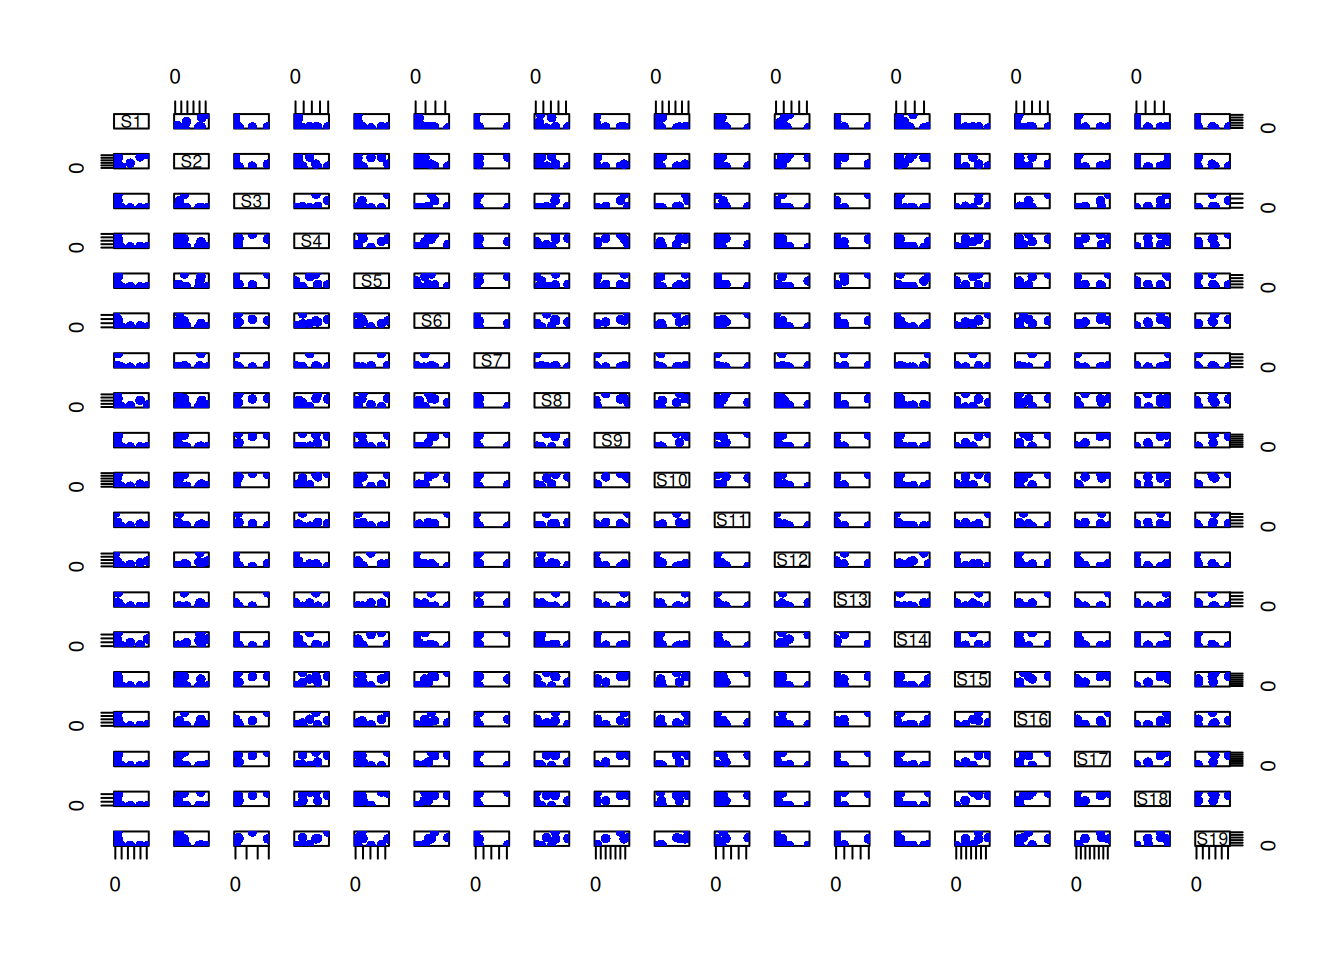
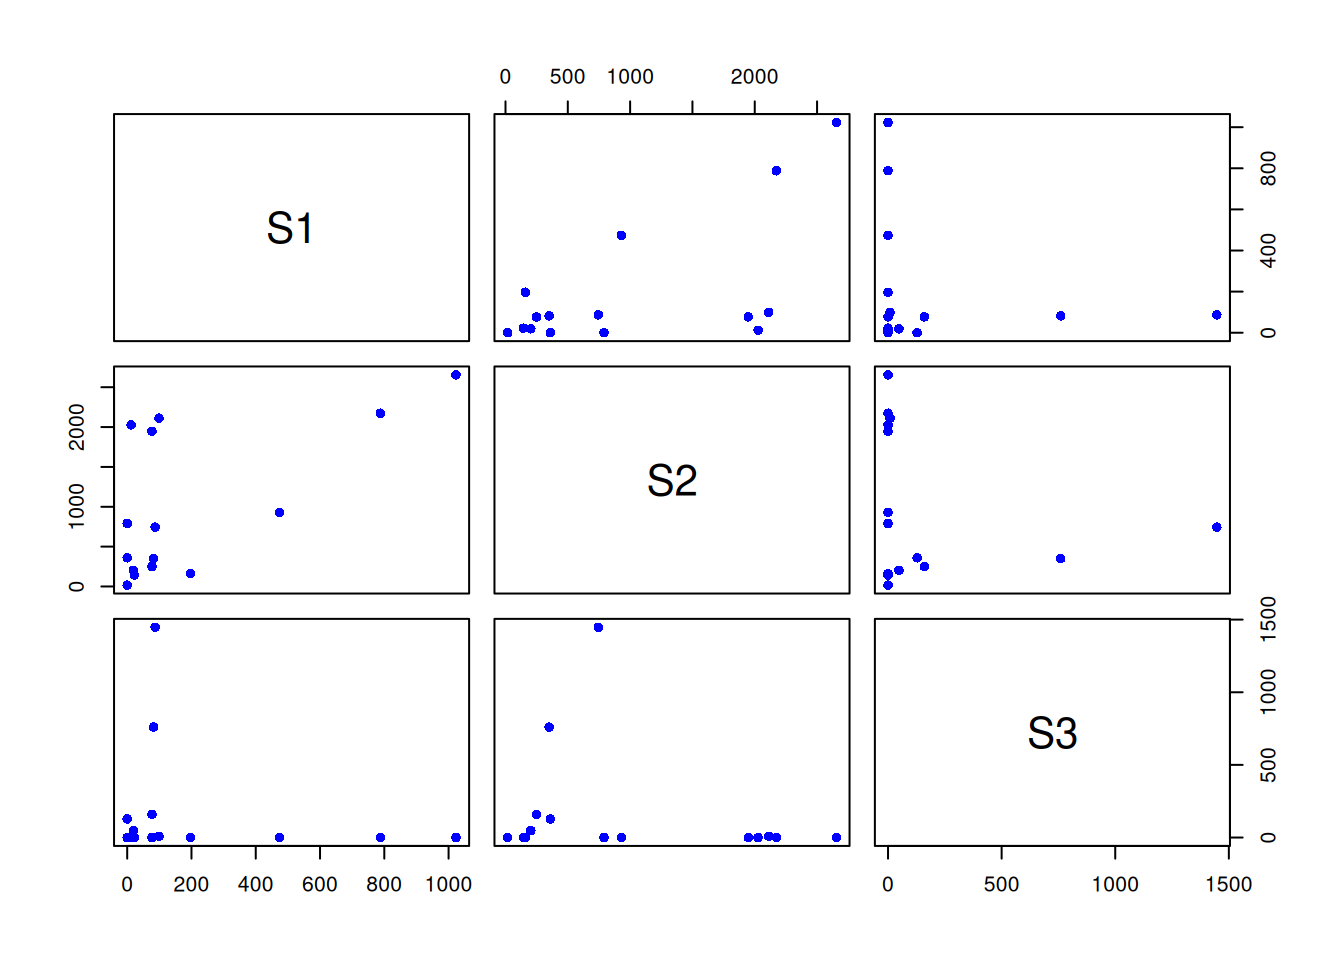
Deploying to netlify-build from @ weharris/RStatsBootcamp-2025@602ded79fa8cedd34bcb641371b27da56d1b0834 🚀

Changed region(s): [[0.0312, 0.0625, 0.9688, 0.9375], [0.9375, 0.25, 0.9688, 0.2812]]

diff --git a/09-correlation.html b/09-correlation.html
@@ -913,7 +913,7 @@ sample estimates:
 <p>For the following exercises, use the data from the file 2.3-cfseal.xlsx. The data are from a sample of Cape fur seals, and include measures of body weight, heart mass, and lung mass. There will be some data handling as part of the exercises below, a practical and important part of every real data analysis.</p>
 <p><br></p>
 <section id="exploring-the-cape-fur-seal-dataset" class="level3"><h3 class="anchored" data-anchor-id="exploring-the-cape-fur-seal-dataset">7.1 Exploring the Cape Fur Seal Dataset</h3>
-<p>Read in the data from the file 2.3-cfseal.xlsx. Use the <code><a href="https://readxl.tidyverse.org/reference/read_excel.html">read_excel()</a></code> function from the <code>readxl</code> package. Print the first few rows of the data, and check the structure of the data. Show your code.</p>
+<p>Read in the data from the file 2.3-cfseal.xlsx. Use the <code><a href="https://readxl.tidyverse.org/reference/read_excel.html">read_excel()</a></code> function from the <code>readxl</code> package. Print the first few rows of the data, and check the correlation structure of the data for the first few columns. Show your code.</p>
 <p><br></p>
 <div class="callout callout-style-default callout-tip callout-titled">
 <div class="callout-header d-flex align-content-center" data-bs-toggle="collapse" data-bs-target=".callout-2-contents" aria-controls="callout-2" aria-expanded="false" aria-label="Toggle callout">
@@ -928,30 +928,34 @@ Waders Data Intercorrelation Analysis
 <div id="callout-2" class="callout-2-contents callout-collapse collapse">
 <div class="callout-body-container callout-body">
 <div class="cell">
-<div class="sourceCode" id="cb25"><pre class="downlit sourceCode r code-with-copy"><code class="sourceCode R"><span><span class="co"># Load the MASS package and waders dataset if not already loaded</span></span>
-<span><span class="kw">if</span> <span class="op">(</span><span class="op">!</span><span class="kw"><a href="https://rdrr.io/r/base/library.html">require</a></span><span class="op">(</span><span class="va"><a href="http://www.stats.ox.ac.uk/pub/MASS4/">MASS</a></span><span class="op">)</span><span class="op">)</span> <span class="op">{</span></span>
-<span>  <span class="co"># Create a simulated waders dataset if MASS is not available</span></span>
-<span>  <span class="fu"><a href="https://rdrr.io/r/base/Random.html">set.seed</a></span><span class="op">(</span><span class="fl">123</span><span class="op">)</span></span>
-<span>  <span class="va">waders</span> <span class="op">&lt;-</span> <span class="fu"><a href="https://rdrr.io/r/base/data.frame.html">data.frame</a></span><span class="op">(</span></span>
-<span>    S1 <span class="op">=</span> <span class="fu"><a href="https://rdrr.io/r/stats/Poisson.html">rpois</a></span><span class="op">(</span><span class="fl">20</span>, <span class="fl">10</span><span class="op">)</span>,</span>
-<span>    S2 <span class="op">=</span> <span class="fu"><a href="https://rdrr.io/r/stats/Poisson.html">rpois</a></span><span class="op">(</span><span class="fl">20</span>, <span class="fl">8</span><span class="op">)</span>,</span>
-<span>    S3 <span class="op">=</span> <span class="fu"><a href="https://rdrr.io/r/stats/Poisson.html">rpois</a></span><span class="op">(</span><span class="fl">20</span>, <span class="fl">5</span><span class="op">)</span></span>
-<span>  <span class="op">)</span></span>
-<span>  <span class="co"># Add correlation between species</span></span>
-<span>  <span class="va">waders</span><span class="op">$</span><span class="va">S2</span> <span class="op">&lt;-</span> <span class="va">waders</span><span class="op">$</span><span class="va">S2</span> <span class="op">+</span> <span class="fl">0.5</span> <span class="op">*</span> <span class="va">waders</span><span class="op">$</span><span class="va">S1</span></span>
-<span>  <span class="va">waders</span><span class="op">$</span><span class="va">S3</span> <span class="op">&lt;-</span> <span class="va">waders</span><span class="op">$</span><span class="va">S3</span> <span class="op">+</span> <span class="fl">0.3</span> <span class="op">*</span> <span class="va">waders</span><span class="op">$</span><span class="va">S1</span> <span class="op">+</span> <span class="fl">0.2</span> <span class="op">*</span> <span class="va">waders</span><span class="op">$</span><span class="va">S2</span></span>
-<span><span class="op">}</span> <span class="kw">else</span> <span class="op">{</span></span>
-<span>  <span class="co"># Load the real dataset if MASS is available</span></span>
-<span>  <span class="fu"><a href="https://rdrr.io/r/utils/data.html">data</a></span><span class="op">(</span><span class="va">waders</span><span class="op">)</span></span>
-<span><span class="op">}</span></span></code><button title="Copy to Clipboard" class="code-copy-button"><i class="bi"></i></button></pre></div>
-<div class="cell-output cell-output-stderr">
-<pre><code>Loading required package: MASS</code></pre>
-</div>
-<div class="sourceCode" id="cb27"><pre class="downlit sourceCode r code-with-copy"><code class="sourceCode R"><span><span class="co"># Read the help page for the dataset</span></span>
+<div class="sourceCode" id="cb25"><pre class="downlit sourceCode r code-with-copy"><code class="sourceCode R"><span><span class="co"># Load/install the MASS package and waders dataset if not already loaded</span></span>
+<span><span class="co"># install.packages("MASS")</span></span>
+<span><span class="kw"><a href="https://rdrr.io/r/base/library.html">library</a></span><span class="op">(</span><span class="va"><a href="http://www.stats.ox.ac.uk/pub/MASS4/">MASS</a></span><span class="op">)</span></span>
+<span><span class="fu"><a href="https://rdrr.io/r/utils/data.html">data</a></span><span class="op">(</span><span class="va">waders</span><span class="op">)</span></span>
+<span></span>
+<span><span class="co"># Read the help page for the dataset</span></span>
 <span><span class="co"># help(waders)</span></span>
 <span></span>
-<span><span class="co"># Use the pairs function to visualize intercorrelations</span></span>
-<span><span class="fu"><a href="https://rdrr.io/r/graphics/pairs.html">pairs</a></span><span class="op">(</span><span class="va">waders</span>, pch <span class="op">=</span> <span class="fl">16</span>, col <span class="op">=</span> <span class="st">"blue"</span><span class="op">)</span></span></code><button title="Copy to Clipboard" class="code-copy-button"><i class="bi"></i></button></pre></div>
+<span><span class="co"># Print the first few rows of the data</span></span>
+<span><span class="fu"><a href="https://rdrr.io/r/utils/head.html">head</a></span><span class="op">(</span><span class="va">waders</span><span class="op">)</span></span></code><button title="Copy to Clipboard" class="code-copy-button"><i class="bi"></i></button></pre></div>
+<div class="cell-output cell-output-stdout">
+<pre><code>   S1   S2 S3 S4   S5  S6   S7  S8 S9 S10 S11  S12  S13   S14  S15   S16 S17
+A  12 2027  0  0 2070  39  219 153  0  15  51 8336 2031 14941   19  3566   0
+B  99 2112  9 87 3481 470 2063  28 17 145  31 1515 1917 17321 3378 20164 177
+C 197  160  0  4  126  17    1  32  0   2   9  477    1   548   13   273   0
+D   0   17  0  3   50   6    4   7  0   1   2   16    0     0    3    69   1
+E  77 1948  0 19  310   1    1  64  0  22  81 2792  221  7422   10  4519  12
+F  19  203 48 45   20 433    0   0 11 167  12    1    0    26 1790  2916 473
+   S18 S19
+A    5   0
+B 1759  53
+C    0   0
+D    0   0
+E    0   0
+F  658  55</code></pre>
+</div>
+<div class="sourceCode" id="cb27"><pre class="downlit sourceCode r code-with-copy"><code class="sourceCode R"><span><span class="co"># Use the pairs function to visualize intercorrelations for the first few rows</span></span>
+<span><span class="fu"><a href="https://rdrr.io/r/graphics/pairs.html">pairs</a></span><span class="op">(</span>x<span class="op">=</span><span class="va">waders</span><span class="op">[</span>,<span class="fl">1</span><span class="op">:</span><span class="fl">3</span><span class="op">]</span>, pch <span class="op">=</span> <span class="fl">16</span>, col <span class="op">=</span> <span class="st">"blue"</span><span class="op">)</span></span></code><button title="Copy to Clipboard" class="code-copy-button"><i class="bi"></i></button></pre></div>
 <div class="cell-output-display">
 <div>
 <figure class="figure"><p><img src="09-correlation_files/figure-html/unnamed-chunk-8-1.png" class="img-fluid figure-img" width="672"></p>
@@ -959,48 +963,12 @@ Waders Data Intercorrelation Analysis
 </div>
 </div>
 <div class="sourceCode" id="cb28"><pre class="downlit sourceCode r code-with-copy"><code class="sourceCode R"><span><span class="co"># Calculate the correlation matrix for a numerical summary</span></span>
-<span><span class="fu"><a href="https://rdrr.io/r/base/Round.html">round</a></span><span class="op">(</span><span class="fu"><a href="https://rdrr.io/r/stats/cor.html">cor</a></span><span class="op">(</span><span class="va">waders</span><span class="op">)</span>, <span class="fl">2</span><span class="op">)</span></span></code><button title="Copy to Clipboard" class="code-copy-button"><i class="bi"></i></button></pre></div>
+<span><span class="fu"><a href="https://rdrr.io/r/base/Round.html">round</a></span><span class="op">(</span><span class="fu"><a href="https://rdrr.io/r/stats/cor.html">cor</a></span><span class="op">(</span><span class="va">waders</span><span class="op">[</span>,<span class="fl">1</span><span class="op">:</span><span class="fl">3</span><span class="op">]</span><span class="op">)</span>, <span class="fl">2</span><span class="op">)</span></span></code><button title="Copy to Clipboard" class="code-copy-button"><i class="bi"></i></button></pre></div>
 <div class="cell-output cell-output-stdout">
-<pre><code>       S1    S2    S3    S4    S5    S6    S7    S8    S9   S10   S11   S12
-S1   1.00  0.61 -0.17 -0.20 -0.18 -0.26 -0.12  0.04 -0.26 -0.18 -0.12  0.22
-S2   0.61  1.00 -0.21 -0.21  0.25 -0.30  0.36 -0.11 -0.32 -0.30 -0.17  0.70
-S3  -0.17 -0.21  1.00  0.70  0.64  0.48 -0.03  0.55  0.74  0.79  0.03 -0.10
-S4  -0.20 -0.21  0.70  1.00  0.48  0.63  0.20  0.73  0.67  0.90  0.20 -0.25
-S5  -0.18  0.25  0.64  0.48  1.00  0.28  0.64  0.30  0.38  0.42 -0.12  0.32
-S6  -0.26 -0.30  0.48  0.63  0.28  1.00  0.10  0.53  0.91  0.82  0.82 -0.31
-S7  -0.12  0.36 -0.03  0.20  0.64  0.10  1.00 -0.16 -0.06 -0.05 -0.11  0.09
-S8   0.04 -0.11  0.55  0.73  0.30  0.53 -0.16  1.00  0.59  0.83  0.38 -0.05
-S9  -0.26 -0.32  0.74  0.67  0.38  0.91 -0.06  0.59  1.00  0.90  0.67 -0.24
-S10 -0.18 -0.30  0.79  0.90  0.42  0.82 -0.05  0.83  0.90  1.00  0.48 -0.25
-S11 -0.12 -0.17  0.03  0.20 -0.12  0.82 -0.11  0.38  0.67  0.48  1.00 -0.18
-S12  0.22  0.70 -0.10 -0.25  0.32 -0.31  0.09 -0.05 -0.24 -0.25 -0.18  1.00
-S13 -0.16  0.09  0.80  0.34  0.88  0.22  0.26  0.28  0.44  0.42 -0.16  0.25
-S14  0.15  0.77 -0.21 -0.10  0.51 -0.24  0.70 -0.25 -0.31 -0.31 -0.25  0.72
-S15 -0.32 -0.25  0.60  0.69  0.47  0.96  0.28  0.44  0.91  0.81  0.66 -0.28
-S16 -0.18  0.04  0.88  0.66  0.88  0.52  0.41  0.40  0.67  0.68  0.05  0.00
-S17 -0.22 -0.29  0.85  0.71  0.46  0.85 -0.07  0.61  0.98  0.91  0.54 -0.21
-S18 -0.32 -0.12  0.63  0.76  0.69  0.80  0.56  0.39  0.75  0.74  0.37 -0.24
-S19 -0.26 -0.37  0.66  0.88  0.25  0.82 -0.09  0.73  0.88  0.95  0.54 -0.29
-      S13   S14   S15   S16   S17   S18   S19
-S1  -0.16  0.15 -0.32 -0.18 -0.22 -0.32 -0.26
-S2   0.09  0.77 -0.25  0.04 -0.29 -0.12 -0.37
-S3   0.80 -0.21  0.60  0.88  0.85  0.63  0.66
-S4   0.34 -0.10  0.69  0.66  0.71  0.76  0.88
-S5   0.88  0.51  0.47  0.88  0.46  0.69  0.25
-S6   0.22 -0.24  0.96  0.52  0.85  0.80  0.82
-S7   0.26  0.70  0.28  0.41 -0.07  0.56 -0.09
-S8   0.28 -0.25  0.44  0.40  0.61  0.39  0.73
-S9   0.44 -0.31  0.91  0.67  0.98  0.75  0.88
-S10  0.42 -0.31  0.81  0.68  0.91  0.74  0.95
-S11 -0.16 -0.25  0.66  0.05  0.54  0.37  0.54
-S12  0.25  0.72 -0.28  0.00 -0.21 -0.24 -0.29
-S13  1.00  0.20  0.39  0.88  0.56  0.53  0.21
-S14  0.20  1.00 -0.11  0.15 -0.30  0.10 -0.33
-S15  0.39 -0.11  1.00  0.70  0.87  0.92  0.80
-S16  0.88  0.15  0.70  1.00  0.76  0.83  0.52
-S17  0.56 -0.30  0.87  0.76  1.00  0.75  0.86
-S18  0.53  0.10  0.92  0.83  0.75  1.00  0.68
-S19  0.21 -0.33  0.80  0.52  0.86  0.68  1.00</code></pre>
+<pre><code>      S1    S2    S3
+S1  1.00  0.61 -0.17
+S2  0.61  1.00 -0.21
+S3 -0.17 -0.21  1.00</code></pre>
 </div>
 </div>
 <p>Based on the pairs plot and correlation matrix:</p>

diff --git a/14-rmarkdown.html b/14-rmarkdown.html
@@ -609,7 +609,7 @@ Key Concept
 <div class="sourceCode" id="cb2"><pre class="sourceCode yaml code-with-copy"><code class="sourceCode yaml"><span id="cb2-1"><a href="#cb2-1" aria-hidden="true" tabindex="-1"></a><span class="pp">---</span></span>
 <span id="cb2-2"><a href="#cb2-2" aria-hidden="true" tabindex="-1"></a><span class="fu">title</span><span class="kw">:</span><span class="at"> </span><span class="st">"My Analysis Report"</span></span>
 <span id="cb2-3"><a href="#cb2-3" aria-hidden="true" tabindex="-1"></a><span class="fu">author</span><span class="kw">:</span><span class="at"> </span><span class="st">"Your Name"</span></span>
-<span id="cb2-4"><a href="#cb2-4" aria-hidden="true" tabindex="-1"></a><span class="fu">date</span><span class="kw">:</span><span class="at"> </span><span class="st">"2025-06-19"</span></span>
+<span id="cb2-4"><a href="#cb2-4" aria-hidden="true" tabindex="-1"></a><span class="fu">date</span><span class="kw">:</span><span class="at"> </span><span class="st">"2025-07-03"</span></span>
 <span id="cb2-5"><a href="#cb2-5" aria-hidden="true" tabindex="-1"></a><span class="fu">output</span><span class="kw">:</span></span>
 <span id="cb2-6"><a href="#cb2-6" aria-hidden="true" tabindex="-1"></a><span class="at">  </span><span class="fu">html_document</span><span class="kw">:</span></span>
 <span id="cb2-7"><a href="#cb2-7" aria-hidden="true" tabindex="-1"></a><span class="at">    </span><span class="fu">toc</span><span class="kw">:</span><span class="at"> </span><span class="ch">true</span></span>
@@ -760,7 +760,7 @@ Key Concept
 <div class="sourceCode" id="cb10"><pre class="sourceCode markdown code-with-copy"><code class="sourceCode markdown"><span id="cb10-1"><a href="#cb10-1" aria-hidden="true" tabindex="-1"></a><span class="co">---</span></span>
 <span id="cb10-2"><a href="#cb10-2" aria-hidden="true" tabindex="-1"></a><span class="an">title:</span><span class="co"> "Car Performance Analysis"</span></span>
 <span id="cb10-3"><a href="#cb10-3" aria-hidden="true" tabindex="-1"></a><span class="an">author:</span><span class="co"> "Data Scientist"</span></span>
-<span id="cb10-4"><a href="#cb10-4" aria-hidden="true" tabindex="-1"></a><span class="an">date:</span><span class="co"> "2025-06-19"</span></span>
+<span id="cb10-4"><a href="#cb10-4" aria-hidden="true" tabindex="-1"></a><span class="an">date:</span><span class="co"> "2025-07-03"</span></span>
 <span id="cb10-5"><a href="#cb10-5" aria-hidden="true" tabindex="-1"></a><span class="an">output:</span><span class="co"> html_document</span></span>
 <span id="cb10-6"><a href="#cb10-6" aria-hidden="true" tabindex="-1"></a><span class="co">---</span></span>
 <span id="cb10-7"><a href="#cb10-7" aria-hidden="true" tabindex="-1"></a></span>
@@ -906,7 +906,7 @@ Solution: Basic R Markdown Document
 <div class="sourceCode" id="cb11"><pre class="sourceCode markdown code-with-copy"><code class="sourceCode markdown"><span id="cb11-1"><a href="#cb11-1" aria-hidden="true" tabindex="-1"></a><span class="co">---</span></span>
 <span id="cb11-2"><a href="#cb11-2" aria-hidden="true" tabindex="-1"></a><span class="an">title:</span><span class="co"> "Analysis of Iris Dataset"</span></span>
 <span id="cb11-3"><a href="#cb11-3" aria-hidden="true" tabindex="-1"></a><span class="an">author:</span><span class="co"> "Your Name"</span></span>
-<span id="cb11-4"><a href="#cb11-4" aria-hidden="true" tabindex="-1"></a><span class="an">date:</span><span class="co"> "2025-06-19"</span></span>
+<span id="cb11-4"><a href="#cb11-4" aria-hidden="true" tabindex="-1"></a><span class="an">date:</span><span class="co"> "2025-07-03"</span></span>
 <span id="cb11-5"><a href="#cb11-5" aria-hidden="true" tabindex="-1"></a><span class="an">output:</span><span class="co"> html_document</span></span>
 <span id="cb11-6"><a href="#cb11-6" aria-hidden="true" tabindex="-1"></a><span class="co">---</span></span>
 <span id="cb11-7"><a href="#cb11-7" aria-hidden="true" tabindex="-1"></a></span>
@@ -1026,28 +1026,28 @@ Solution: Output Format Comparison
 <div class="sourceCode" id="cb12"><pre class="sourceCode yaml code-with-copy"><code class="sourceCode yaml"><span id="cb12-1"><a href="#cb12-1" aria-hidden="true" tabindex="-1"></a><span class="pp">---</span></span>
 <span id="cb12-2"><a href="#cb12-2" aria-hidden="true" tabindex="-1"></a><span class="fu">title</span><span class="kw">:</span><span class="at"> </span><span class="st">"My Analysis"</span></span>
 <span id="cb12-3"><a href="#cb12-3" aria-hidden="true" tabindex="-1"></a><span class="fu">author</span><span class="kw">:</span><span class="at"> </span><span class="st">"Your Name"</span></span>
-<span id="cb12-4"><a href="#cb12-4" aria-hidden="true" tabindex="-1"></a><span class="fu">date</span><span class="kw">:</span><span class="at"> </span><span class="st">"2025-06-19"</span></span>
+<span id="cb12-4"><a href="#cb12-4" aria-hidden="true" tabindex="-1"></a><span class="fu">date</span><span class="kw">:</span><span class="at"> </span><span class="st">"2025-07-03"</span></span>
 <span id="cb12-5"><a href="#cb12-5" aria-hidden="true" tabindex="-1"></a><span class="fu">output</span><span class="kw">:</span><span class="at"> html_document</span></span>
 <span id="cb12-6"><a href="#cb12-6" aria-hidden="true" tabindex="-1"></a><span class="pp">---</span></span></code><button title="Copy to Clipboard" class="code-copy-button"><i class="bi"></i></button></pre></div>
 <p><strong>For PDF output:</strong></p>
 <div class="sourceCode" id="cb13"><pre class="sourceCode yaml code-with-copy"><code class="sourceCode yaml"><span id="cb13-1"><a href="#cb13-1" aria-hidden="true" tabindex="-1"></a><span class="pp">---</span></span>
 <span id="cb13-2"><a href="#cb13-2" aria-hidden="true" tabindex="-1"></a><span class="fu">title</span><span class="kw">:</span><span class="at"> </span><span class="st">"My Analysis"</span></span>
 <span id="cb13-3"><a href="#cb13-3" aria-hidden="true" tabindex="-1"></a><span class="fu">author</span><span class="kw">:</span><span class="at"> </span><span class="st">"Your Name"</span></span>
-<span id="cb13-4"><a href="#cb13-4" aria-hidden="true" tabindex="-1"></a><span class="fu">date</span><span class="kw">:</span><span class="at"> </span><span class="st">"2025-06-19"</span></span>
+<span id="cb13-4"><a href="#cb13-4" aria-hidden="true" tabindex="-1"></a><span class="fu">date</span><span class="kw">:</span><span class="at"> </span><span class="st">"2025-07-03"</span></span>
 <span id="cb13-5"><a href="#cb13-5" aria-hidden="true" tabindex="-1"></a><span class="fu">output</span><span class="kw">:</span><span class="at"> pdf_document</span></span>
 <span id="cb13-6"><a href="#cb13-6" aria-hidden="true" tabindex="-1"></a><span class="pp">---</span></span></code><button title="Copy to Clipboard" class="code-copy-button"><i class="bi"></i></button></pre></div>
 <p><strong>For Word output:</strong></p>
 <div class="sourceCode" id="cb14"><pre class="sourceCode yaml code-with-copy"><code class="sourceCode yaml"><span id="cb14-1"><a href="#cb14-1" aria-hidden="true" tabindex="-1"></a><span class="pp">---</span></span>
 <span id="cb14-2"><a href="#cb14-2" aria-hidden="true" tabindex="-1"></a><span class="fu">title</span><span class="kw">:</span><span class="at"> </span><span class="st">"My Analysis"</span></span>
 <span id="cb14-3"><a href="#cb14-3" aria-hidden="true" tabindex="-1"></a><span class="fu">author</span><span class="kw">:</span><span class="at"> </span><span class="st">"Your Name"</span></span>
-<span id="cb14-4"><a href="#cb14-4" aria-hidden="true" tabindex="-1"></a><span class="fu">date</span><span class="kw">:</span><span class="at"> </span><span class="st">"2025-06-19"</span></span>
+<span id="cb14-4"><a href="#cb14-4" aria-hidden="true" tabindex="-1"></a><span class="fu">date</span><span class="kw">:</span><span class="at"> </span><span class="st">"2025-07-03"</span></span>
 <span id="cb14-5"><a href="#cb14-5" aria-hidden="true" tabindex="-1"></a><span class="fu">output</span><span class="kw">:</span><span class="at"> word_document</span></span>
 <span id="cb14-6"><a href="#cb14-6" aria-hidden="true" tabindex="-1"></a><span class="pp">---</span></span></code><button title="Copy to Clipboard" class="code-copy-button"><i class="bi"></i></button></pre></div>
 <p><strong>For multiple output formats:</strong></p>
 <div class="sourceCode" id="cb15"><pre class="sourceCode yaml code-with-copy"><code class="sourceCode yaml"><span id="cb15-1"><a href="#cb15-1" aria-hidden="true" tabindex="-1"></a><span class="pp">---</span></span>
 <span id="cb15-2"><a href="#cb15-2" aria-hidden="true" tabindex="-1"></a><span class="fu">title</span><span class="kw">:</span><span class="at"> </span><span class="st">"My Analysis"</span></span>
 <span id="cb15-3"><a href="#cb15-3" aria-hidden="true" tabindex="-1"></a><span class="fu">author</span><span class="kw">:</span><span class="at"> </span><span class="st">"Your Name"</span></span>
-<span id="cb15-4"><a href="#cb15-4" aria-hidden="true" tabindex="-1"></a><span class="fu">date</span><span class="kw">:</span><span class="at"> </span><span class="st">"2025-06-19"</span></span>
+<span id="cb15-4"><a href="#cb15-4" aria-hidden="true" tabindex="-1"></a><span class="fu">date</span><span class="kw">:</span><span class="at"> </span><span class="st">"2025-07-03"</span></span>
 <span id="cb15-5"><a href="#cb15-5" aria-hidden="true" tabindex="-1"></a><span class="fu">output</span><span class="kw">:</span></span>
 <span id="cb15-6"><a href="#cb15-6" aria-hidden="true" tabindex="-1"></a><span class="at">  </span><span class="fu">html_document</span><span class="kw">:</span></span>
 <span id="cb15-7"><a href="#cb15-7" aria-hidden="true" tabindex="-1"></a><span class="at">    </span><span class="fu">toc</span><span class="kw">:</span><span class="at"> </span><span class="ch">true</span></span>
@@ -1114,7 +1114,7 @@ Solution: Advanced R Markdown Features
 <div class="sourceCode" id="cb16"><pre class="sourceCode markdown code-with-copy"><code class="sourceCode markdown"><span id="cb16-1"><a href="#cb16-1" aria-hidden="true" tabindex="-1"></a><span class="co">---</span></span>
 <span id="cb16-2"><a href="#cb16-2" aria-hidden="true" tabindex="-1"></a><span class="an">title:</span><span class="co"> "Advanced R Markdown Features"</span></span>
 <span id="cb16-3"><a href="#cb16-3" aria-hidden="true" tabindex="-1"></a><span class="an">author:</span><span class="co"> "Your Name"</span></span>
-<span id="cb16-4"><a href="#cb16-4" aria-hidden="true" tabindex="-1"></a><span class="an">date:</span><span class="co"> "2025-06-19"</span></span>
+<span id="cb16-4"><a href="#cb16-4" aria-hidden="true" tabindex="-1"></a><span class="an">date:</span><span class="co"> "2025-07-03"</span></span>
 <span id="cb16-5"><a href="#cb16-5" aria-hidden="true" tabindex="-1"></a><span class="an">output:</span></span>
 <span id="cb16-6"><a href="#cb16-6" aria-hidden="true" tabindex="-1"></a><span class="co">  html_document:</span></span>
 <span id="cb16-7"><a href="#cb16-7" aria-hidden="true" tabindex="-1"></a><span class="co">    toc: true</span></span>
